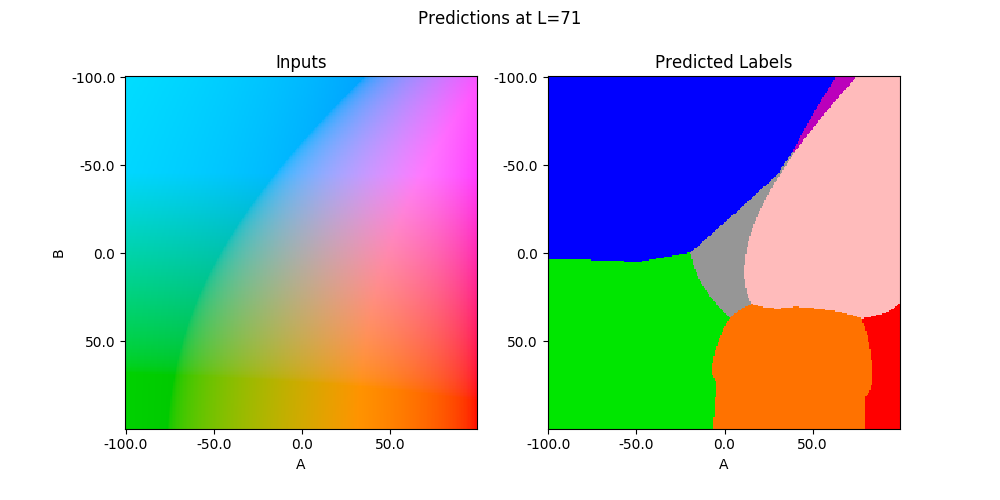
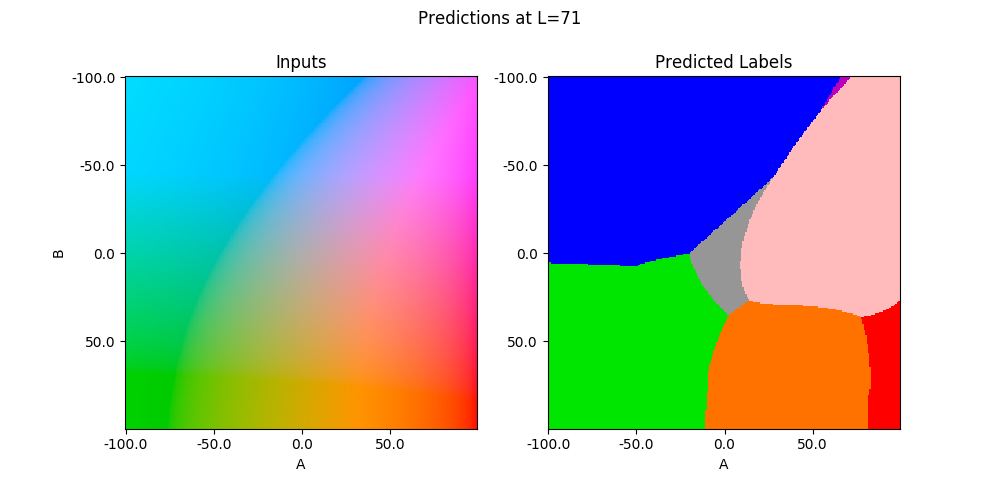
almost done E7 can't figure out pipeline

diff --git a/e7/colour_bayes.py b/e7/colour_bayes.py
@@ -6,6 +6,7 @@ from sklearn.model_selection import train_test_split
 from sklearn.naive_bayes import GaussianNB
 from skimage.color import rgb2lab
 from sklearn.pipeline import make_pipeline
+from sklearn.preprocessing import FunctionTransformer
 import sys
 
 
@@ -67,6 +68,10 @@ def plot_predictions(model, lum=71, resolution=256):
     plt.xlabel('A')
     plt.imshow(pixels)
 
+def rgbtolab(X):
+    X = X.reshape((1, -1, 3))
+    X = rgb2lab(X)
+    return X.reshape((-1, 3))
 
 def main():
     data = pd.read_csv(sys.argv[1])
@@ -77,7 +82,7 @@ def main():
     X = X / 255
     X_train, X_test, y_train, y_test = train_test_split(X, y)
     model_rgb = GaussianNB()
-    model_rgb.fit(X_train, y_train)
+    model_rgb = model_rgb.fit(X_train, y_train)
     print(model_rgb.score(X_test, y_test))
     # TODO: build model_rgb to predict y from X.
     # TODO: print model_rgb's accuracy_score
@@ -87,11 +92,9 @@ def main():
 
     plot_predictions(model_rgb)
     plt.savefig('predictions_rgb.png')
+
     X = np.array(X)
-    X = X.reshape((1,-1,3))
-    lab = rgb2lab(X)
-    model_lab = lab.reshape((-1,3))
-    make_pipeline()
+    model_lab = make_pipeline(FunctionTransformer(rgbtolab(X)), GaussianNB())
     plot_predictions(model_lab)
     plt.savefig('predictions_lab.png')
 
